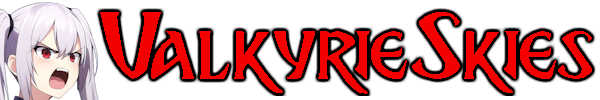
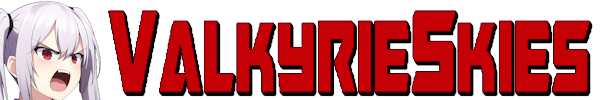
testing new style

diff --git a/newstyle.css b/newstyle.css
@@ -1,0 +1,161 @@
+/* General Element Stylings */
+
+body
+{
+	background-color: #d5dfeb;
+	font-family: verdana;
+}
+
+a
+{
+	text-decoration: none;
+	color: #a30a0a;
+}
+
+ul
+{
+	margin-left: -15px;
+	list-style-type: square;
+}
+
+hr
+{
+	border: 1px solid black;
+}
+
+/* Header */
+
+.header
+{
+	display: flex;
+	border-style: solid;
+	background-color: #98cad6;
+	border-radius: 15px 15px 0px 0px;
+}
+
+.headleft
+{
+	padding: 10px;
+	flex: 25%;
+}
+
+.headright
+{
+	padding: 10px;
+	flex: 75%;
+}
+
+.titlebar
+{
+	background-color: #63b0bf;
+}
+
+	div.titlebar
+	{
+		border-style: solid;
+		border-style: none solid solid solid;
+		text-align: center;
+		padding: 1px;
+	}
+
+	h3.titlebar
+	{
+		margin-top: 2px;
+		margin-bottom: 2px;
+	}
+	
+a.bar
+{
+	font-weight: bold;
+}
+
+/* Left Sidebar */
+
+.leftbar
+{
+	padding: 0px 5px 0px 5px;
+	flex: 10%
+}
+
+	div.leftbar
+	{
+		border-style: none solid solid solid;
+		background-color: #98cad6;
+	}
+
+	h4.leftbar
+	{
+		text-decoration: underline;
+	}
+
+	p.leftbar
+	{
+		padding: 0px 5px 0px 5px;
+		width: 95%;
+	}
+
+/* Main Content */
+
+.body
+{
+	display: flex;
+}
+
+.main
+{
+	padding: 0px 10px 0px 10px;
+	flex: 80%;
+}
+
+	div.main
+	{
+		border-style: none none solid none;
+		background-color: #d5dfeb;
+	}
+	
+/* Right Sidebar */
+
+.rightbar
+{
+	padding: 0px 5px 0px 5px;
+	flex: 10%
+}
+
+	div.rightbar
+	{
+		border-style: none solid solid solid;
+		background-color: #98cad6;
+	}
+	
+	h4.rightbar
+	{
+		text-decoration: underline;
+	}
+
+	p.rightbar
+	{
+		padding: 0px 5px 0px 5px;
+		width: 95%;
+	}
+
+/* Footer */
+
+.footer
+{
+	background-color: #63b0bf;
+	text-align: center;
+	padding: 1px;
+	font-size: 0.7em;
+}
+
+	div.footer
+	{
+		border-style: none solid solid solid;
+		border-radius: 0px 0px 15px 15px;
+	}
+
+	p.footer
+	{
+		width: 50%;
+		margin: auto;
+	}

diff --git a/newindex.html b/newindex.html
@@ -1,0 +1,36 @@
+<!DOCTYPE html>
+<html lang="en">
+
+<head>
+	<meta charset="UTF-8">
+	<meta name="viewport" content="width=device-width, initial-scale=1.0">
+	<link rel="icon" type="image/x-icon" href="/Images/favicon.png">
+	<title>ValkyrieSkies - Index</title>
+	<meta property="og:type" content="website">
+	<meta property="og:url" content="http://valkyrieskies.ie">
+	<meta property="og:title" content="ValkyrieSkies' Personal Site">
+	<meta property="og:description" content="A web 1.0 blog of sorts for musings, reviews, and other miscellany.">
+	<meta property="og:image" content="/images/lofnyell.png">
+	<meta name="description" content="ValkyrieSkies' personal website.">
+	<meta name="author" content="ValkyrieSkies">
+	<link rel="stylesheet" href="/newstyle.css">
+</head>
+
+<body>
+
+	<div class="header">
+		<div class="headleft">
+			<center><a href="/"><img src="Images/thinbanner.png" alt="Website Logo"></a></center>
+		</div>
+		
+		<div class="headright">
+			<center>
+			<a href="https://twitter.com/ValkyrianSkies"><img src="/Images/socialtwitter.png" Alt="ValkyrianSkies on Twitter" title="@valkyrianskies on Twitter" height="100px">
+			<a href="https://github.com/ValkyrieSkies"><img src="/Images/socialgithub.png" Alt="ValkyrieSkies on Github" title="ValkyrieSkies on Github" height="100px"></a>
+			<a href="https://youtube.com/ValkyrianSkies"><img src="/Images/socialyoutube.png" Alt="ValkyrianSkies on Youtube" title="ValkyrianSkies on Youtube" height="100px">
+			<a href="mailto:valkyrianskies@gmail.com"><img src="/Images/socialemail.png" Alt="Email ValkyrieSkies" title="Email valkyrianskies@gmail.com" height="100px"></a>
+			</center>
+		</div>
+	</div>
+
+</body>
